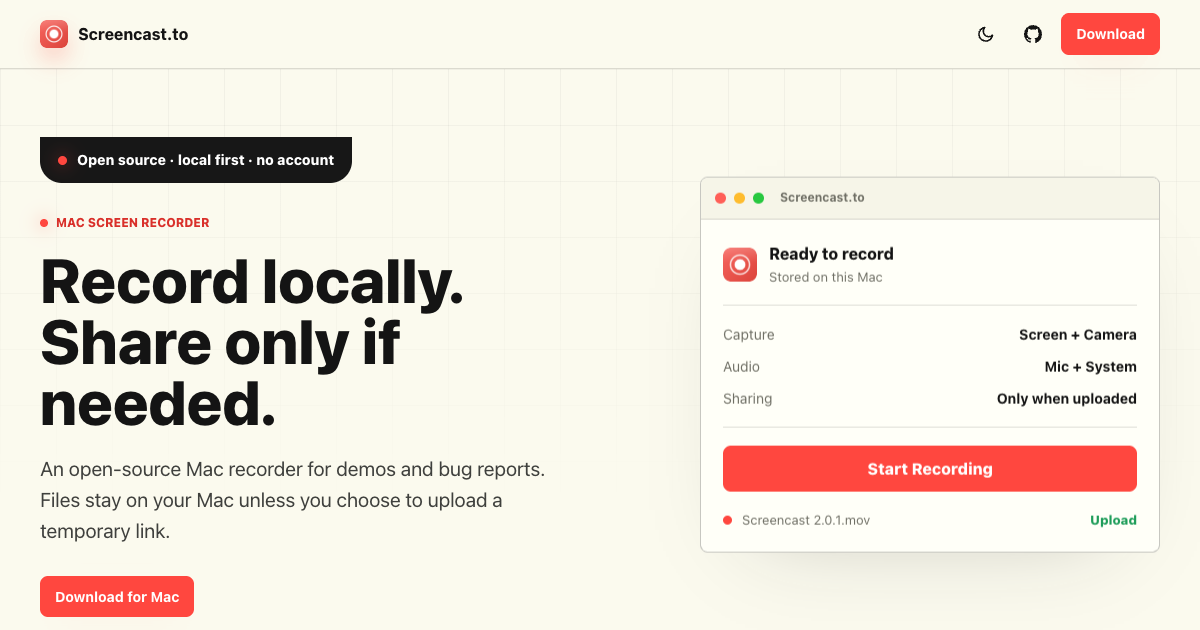
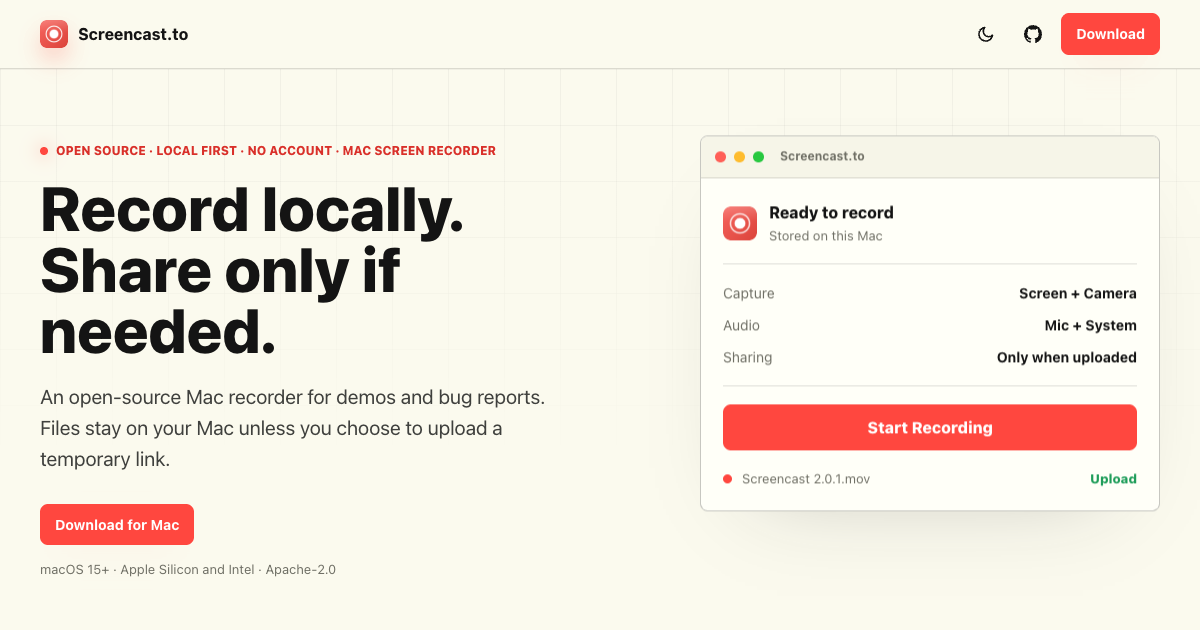
Combine hero product labels

diff --git a/worker/src/views/home.ts b/worker/src/views/home.ts
@@ -289,29 +289,6 @@ ${THEME_SCRIPT}
   .hero-copy-block {
     max-width: 590px;
   }
-  .signal-pill {
-    width: fit-content;
-    min-height: 46px;
-    display: flex;
-    align-items: center;
-    gap: 10px;
-    margin-bottom: 26px;
-    padding: 0 18px;
-    border-radius: 0 0 22px 22px;
-    background: var(--panel);
-    color: #fff;
-    box-shadow: 0 22px 58px -34px var(--shadow-strong);
-    font-size: 14px;
-    font-weight: 820;
-  }
-  .signal-pill::before {
-    content: "";
-    width: 9px;
-    height: 9px;
-    border-radius: 50%;
-    background: var(--accent);
-    box-shadow: 0 0 18px rgba(255,71,63,0.7);
-  }
   .eyebrow {
     display: inline-flex;
     align-items: center;
@@ -554,13 +531,6 @@ ${THEME_SCRIPT}
     .icon-button { width: 38px; min-height: 38px; }
     .nav-actions .button.primary { min-height: 38px; padding: 8px 11px; }
     .hero { padding-top: 48px; }
-    .signal-pill {
-      width: 100%;
-      justify-content: center;
-      border-radius: 8px;
-      margin-bottom: 26px;
-      text-align: center;
-    }
     h1 { font-size: 46px; }
     h2 { font-size: 34px; }
     .hero-copy { font-size: 18px; }
@@ -638,8 +608,7 @@ ${THEME_SCRIPT}
   <section class="hero">
     <div class="wrap hero-grid">
       <div class="hero-copy-block">
-        <div class="signal-pill">Open source &middot; local first &middot; no account</div>
-        <div class="eyebrow">Mac screen recorder</div>
+        <div class="eyebrow">Open source &middot; local first &middot; no account &middot; Mac screen recorder</div>
         <h1>Record locally. Share only if needed.</h1>
         <p class="hero-copy">An open-source Mac recorder for demos and bug reports. Files stay on your Mac unless you choose to upload a temporary link.</p>
         <div class="cta-row">
